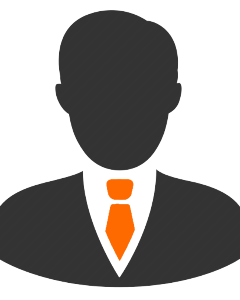
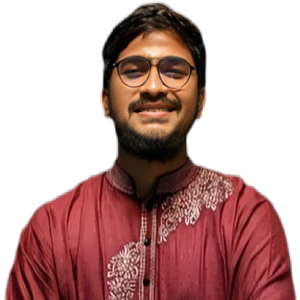
Update: Dynamic profile form logic for Student vs Working Professional - 04 Aug 2026 05:07 PM

diff --git a/resources/views/backend/profile/profile.blade.php b/resources/views/backend/profile/profile.blade.php
@@ -148,7 +148,7 @@
                             </div>
                             <div class="text-muted"><i class="fa fa-chevron-right fs-7"></i></div>
                             <div id="step-indicator-2" class="step-badge text-muted fw-semibold">
-                                <span class="badge rounded-circle bg-secondary me-2">2</span> Step 2: Guardian & Institution Details
+                                <span class="badge rounded-circle bg-secondary me-2">2</span> Step 2: Additional Details
                             </div>
                         </div>
                     </div>
@@ -181,14 +181,22 @@
                                     </div>
 
                                     <div class="col-md-6">
+                                        <label for="user_type" class="form-label fw-semibold text-primary">User Type (ইউজার ধরন) <code>*</code></label>
+                                        <select name="user_type" id="user_type" class="form-select border-primary" onchange="toggleUserTypeFields()">
+                                            <option value="Student" {{ (old('user_type', $booking->user_type ?? '') == 'Student' || !isset($booking->user_type)) ? 'selected' : '' }}>Student (শিক্ষার্থী/ছাত্রী)</option>
+                                            <option value="Working Professional" {{ (old('user_type', $booking->user_type ?? '') == 'Working Professional') ? 'selected' : '' }}>Working Professional (চাকুরিজীবী)</option>
+                                        </select>
+                                    </div>
+
+                                    <div class="col-md-6">
                                         <label for="userImage" class="form-label fw-semibold">Profile Photo</label>
                                         <input type="file" class="form-control" name="user_image" id="userImage">
                                         <small class="text-muted">Max size: 4MB (JPG, PNG, WEBP)</small>
                                     </div>
 
-                                    <div class="col-12">
+                                    <div class="col-md-6">
                                         <label for="address" class="form-label fw-semibold">Present Address</label>
-                                        <textarea class="form-control" name="address" id="address" rows="2" placeholder="Full Present Address">{{ old('address', $user->address) }}</textarea>
+                                        <input type="text" class="form-control" name="address" id="address" value="{{ old('address', $user->address) }}" placeholder="Full Present Address">
                                     </div>
                                 </div>
 
@@ -199,47 +207,67 @@
                                 </div>
                             </div>
 
-                            <!-- STEP 2: Guardian & Institution Details -->
+                            <!-- STEP 2: Additional Details based on User Type -->
                             <div id="wizard-step-2" style="display: none;">
-                                <h6 class="text-uppercase fw-bold text-success mb-3"><i class="fa fa-users me-1"></i> Step 2: Guardian & Institution Details</h6>
                                 
-                                <div class="row g-3">
-                                    <!-- Father's Info -->
-                                    <div class="col-md-4">
-                                        <label for="father_name" class="form-label fw-semibold">Father's Name</label>
-                                        <input type="text" class="form-control" name="father_name" value="{{ old('father_name', $booking->father_name ?? '') }}" id="father_name" placeholder="Father's Name">
-                                    </div>
+                                <!-- STUDENT DYNAMIC WRAPPER -->
+                                <div id="student_fields_wrap">
+                                    <h6 class="text-uppercase fw-bold text-success mb-3"><i class="fa fa-users me-1"></i> Student Guardian & Institution Details</h6>
+                                    
+                                    <div class="row g-3">
+                                        <div class="col-md-12">
+                                            <label for="institution_name" class="form-label fw-semibold text-primary">Institution Name (শিক্ষাপ্রতিষ্ঠানের নাম)</label>
+                                            <input type="text" class="form-control border-primary" name="institution_name" value="{{ old('institution_name', $booking->institution_name ?? '') }}" id="institution_name" placeholder="College / University Name">
+                                        </div>
 
-                                    <div class="col-md-4">
-                                        <label for="father_phone" class="form-label fw-semibold">Father's Phone Number</label>
-                                        <input type="text" class="form-control" name="father_phone" value="{{ old('father_phone', $booking->father_phone ?? '') }}" id="father_phone" placeholder="Father's Phone">
-                                    </div>
+                                        <!-- Father's Info -->
+                                        <div class="col-md-4">
+                                            <label for="father_name" class="form-label fw-semibold">Father's Name</label>
+                                            <input type="text" class="form-control" name="father_name" value="{{ old('father_name', $booking->father_name ?? '') }}" id="father_name" placeholder="Father's Name">
+                                        </div>
 
-                                    <div class="col-md-4">
-                                        <label for="father_nid" class="form-label fw-semibold">Father's NID</label>
-                                        <input type="text" class="form-control" name="father_nid" value="{{ old('father_nid', $booking->father_nid ?? '') }}" id="father_nid" placeholder="Father's NID Number">
-                                    </div>
+                                        <div class="col-md-4">
+                                            <label for="father_phone" class="form-label fw-semibold">Father's Phone Number</label>
+                                            <input type="text" class="form-control" name="father_phone" value="{{ old('father_phone', $booking->father_phone ?? '') }}" id="father_phone" placeholder="Father's Phone">
+                                        </div>
 
-                                    <!-- Mother's Info -->
-                                    <div class="col-md-4">
-                                        <label for="mother_name" class="form-label fw-semibold">Mother's Name</label>
-                                        <input type="text" class="form-control" name="mother_name" value="{{ old('mother_name', $booking->mother_name ?? '') }}" id="mother_name" placeholder="Mother's Name">
-                                    </div>
+                                        <div class="col-md-4">
+                                            <label for="father_nid" class="form-label fw-semibold">Father's NID</label>
+                                            <input type="text" class="form-control" name="father_nid" value="{{ old('father_nid', $booking->father_nid ?? '') }}" id="father_nid" placeholder="Father's NID Number">
+                                        </div>
 
-                                    <div class="col-md-4">
-                                        <label for="mother_phone" class="form-label fw-semibold">Mother's Phone Number</label>
-                                        <input type="text" class="form-control" name="mother_phone" value="{{ old('mother_phone', $booking->mother_phone ?? '') }}" id="mother_phone" placeholder="Mother's Phone">
-                                    </div>
+                                        <!-- Mother's Info -->
+                                        <div class="col-md-4">
+                                            <label for="mother_name" class="form-label fw-semibold">Mother's Name</label>
+                                            <input type="text" class="form-control" name="mother_name" value="{{ old('mother_name', $booking->mother_name ?? '') }}" id="mother_name" placeholder="Mother's Name">
+                                        </div>
 
-                                    <div class="col-md-4">
-                                        <label for="mother_nid" class="form-label fw-semibold">Mother's NID</label>
-                                        <input type="text" class="form-control" name="mother_nid" value="{{ old('mother_nid', $booking->mother_nid ?? '') }}" id="mother_nid" placeholder="Mother's NID Number">
-                                    </div>
+                                        <div class="col-md-4">
+                                            <label for="mother_phone" class="form-label fw-semibold">Mother's Phone Number</label>
+                                            <input type="text" class="form-control" name="mother_phone" value="{{ old('mother_phone', $booking->mother_phone ?? '') }}" id="mother_phone" placeholder="Mother's Phone">
+                                        </div>
 
-                                    <!-- Institution Name -->
-                                    <div class="col-md-12">
-                                        <label for="institution_name" class="form-label fw-semibold text-primary">Institution Name (শিক্ষাপ্রতিষ্ঠানের নাম)</label>
-                                        <input type="text" class="form-control" name="institution_name" value="{{ old('institution_name', $booking->institution_name ?? '') }}" id="institution_name" placeholder="College / University Name">
+                                        <div class="col-md-4">
+                                            <label for="mother_nid" class="form-label fw-semibold">Mother's NID</label>
+                                            <input type="text" class="form-control" name="mother_nid" value="{{ old('mother_nid', $booking->mother_nid ?? '') }}" id="mother_nid" placeholder="Mother's NID Number">
+                                        </div>
+                                    </div>
+                                </div>
+
+                                <!-- WORKING PROFESSIONAL DYNAMIC WRAPPER -->
+                                <div id="prof_fields_wrap" style="display: none;">
+                                    <h6 class="text-uppercase fw-bold text-success mb-3"><i class="fa fa-briefcase me-1"></i> Working Professional Workplace & NID Details</h6>
+                                    
+                                    <div class="row g-3">
+                                        <div class="col-md-6">
+                                            <label for="nid" class="form-label fw-semibold text-success">Resident NID / Birth Certificate No <code>*</code></label>
+                                            <input type="text" class="form-control border-success" name="nid" value="{{ old('nid', $booking->nid ?? '') }}" id="nid" placeholder="NID or Passport or Birth Reg Number">
+                                        </div>
+
+                                        <div class="col-md-6">
+                                            <label for="workplace_name" class="form-label fw-semibold text-success">Workplace Name (কর্মস্থলের নাম) <code>*</code></label>
+                                            <input type="text" class="form-control border-success" name="workplace_name" value="{{ old('workplace_name', $booking->workplace_name ?? '') }}" id="workplace_name" placeholder="Company / Office Name">
+                                        </div>
                                     </div>
                                 </div>
 
@@ -258,6 +286,23 @@
                 </div>
 
                 <script>
+                function toggleUserTypeFields() {
+                    var userTypeEl = document.getElementById('user_type');
+                    var studentWrap = document.getElementById('student_fields_wrap');
+                    var profWrap = document.getElementById('prof_fields_wrap');
+                    
+                    if (!userTypeEl || !studentWrap || !profWrap) return;
+
+                    var userType = userTypeEl.value;
+                    if (userType === 'Working Professional') {
+                        studentWrap.style.display = 'none';
+                        profWrap.style.display = 'block';
+                    } else {
+                        studentWrap.style.display = 'block';
+                        profWrap.style.display = 'none';
+                    }
+                }
+
                 function goToStep(step) {
                     if (step === 2) {
                         document.getElementById('wizard-step-1').style.display = 'none';
@@ -283,6 +328,10 @@
                         document.getElementById('step-indicator-1').querySelector('.badge').classList.replace('bg-secondary', 'bg-primary');
                     }
                 }
+
+                document.addEventListener('DOMContentLoaded', function () {
+                    toggleUserTypeFields();
+                });
                 </script>
                 @endhasanyrole
 

diff --git a/app/Services/ProfileService.php b/app/Services/ProfileService.php
@@ -63,7 +63,7 @@ class ProfileService {
             $staff->update($staffData);
         }
 
-        // RoomBookingHistory Sync (Complete sync for resident profile fields)
+        // RoomBookingHistory Sync (Complete sync based on Student vs Working Professional)
         $bookingHistory = \App\Models\Backend\RoomBookingHistory::where('phone', 'LIKE', '%' . $last11Digits)->first();
         if ($bookingHistory) {
             $bookingData = [
@@ -74,6 +74,18 @@ class ProfileService {
 
             if ($request->has('address')) {
                 $bookingData['address'] = $request->address;
+            }
+            if ($request->has('user_type')) {
+                $bookingData['user_type'] = $request->user_type;
+            }
+            if ($request->has('nid')) {
+                $bookingData['nid'] = $request->nid;
+            }
+            if ($request->has('workplace_name')) {
+                $bookingData['workplace_name'] = $request->workplace_name;
+            }
+            if ($request->has('institution_name')) {
+                $bookingData['institution_name'] = $request->institution_name;
             }
             if ($request->has('father_name')) {
                 $bookingData['father_name'] = $request->father_name;
@@ -92,15 +104,6 @@ class ProfileService {
             }
             if ($request->has('mother_nid')) {
                 $bookingData['mother_nid'] = $request->mother_nid;
-            }
-            if ($request->has('user_type')) {
-                $bookingData['user_type'] = $request->user_type;
-            }
-            if ($request->has('institution_name')) {
-                $bookingData['institution_name'] = $request->institution_name;
-            }
-            if ($request->has('workplace_name')) {
-                $bookingData['workplace_name'] = $request->workplace_name;
             }
 
             if ($request->hasFile('user_image')) {

diff --git a/app/Http/Controllers/Backend/ProfileController.php b/app/Http/Controllers/Backend/ProfileController.php
@@ -52,15 +52,16 @@ class ProfileController extends Controller
             'email' => 'required|email|unique:users,email,' . $user->id,
             'user_image' => 'nullable|file|mimes:jpg,png,jpeg,pdf,webp|max:4096',
             'cover_image' => 'nullable|file|mimes:jpg,png,jpeg,pdf,webp|max:4096',
+            'user_type' => 'nullable|string|max:100',
+            'nid' => 'nullable|string|max:100',
+            'workplace_name' => 'nullable|string|max:255',
+            'institution_name' => 'nullable|string|max:255',
             'father_name' => 'nullable|string|max:255',
             'father_phone' => 'nullable|string|max:30',
             'father_nid' => 'nullable|string|max:100',
             'mother_name' => 'nullable|string|max:255',
             'mother_phone' => 'nullable|string|max:30',
             'mother_nid' => 'nullable|string|max:100',
-            'user_type' => 'nullable|string|max:100',
-            'institution_name' => 'nullable|string|max:255',
-            'workplace_name' => 'nullable|string|max:255',
             'address' => 'nullable|string|max:500',
         ]);
 
